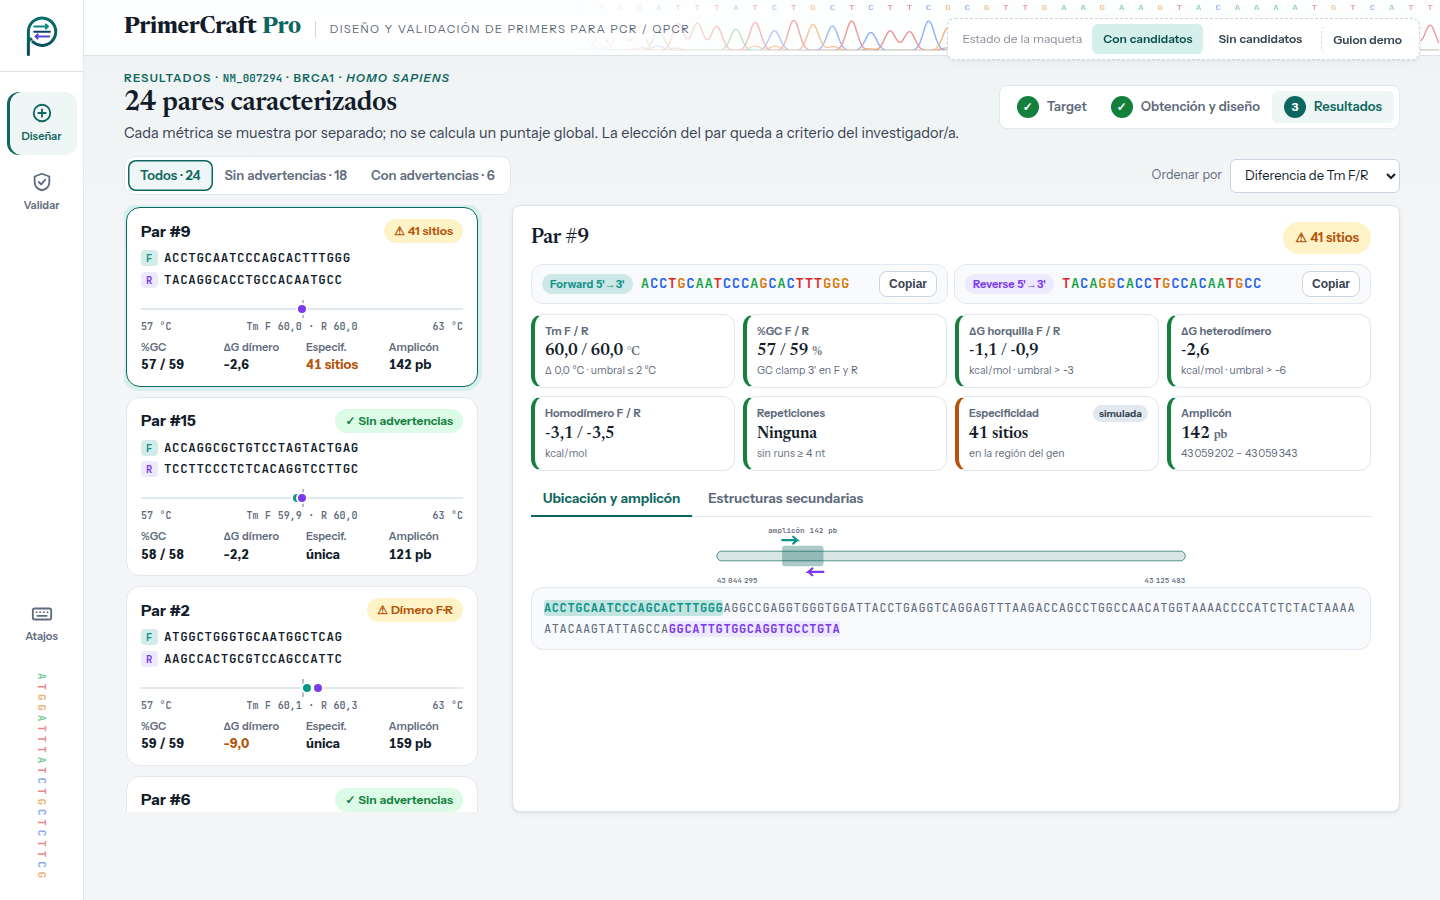
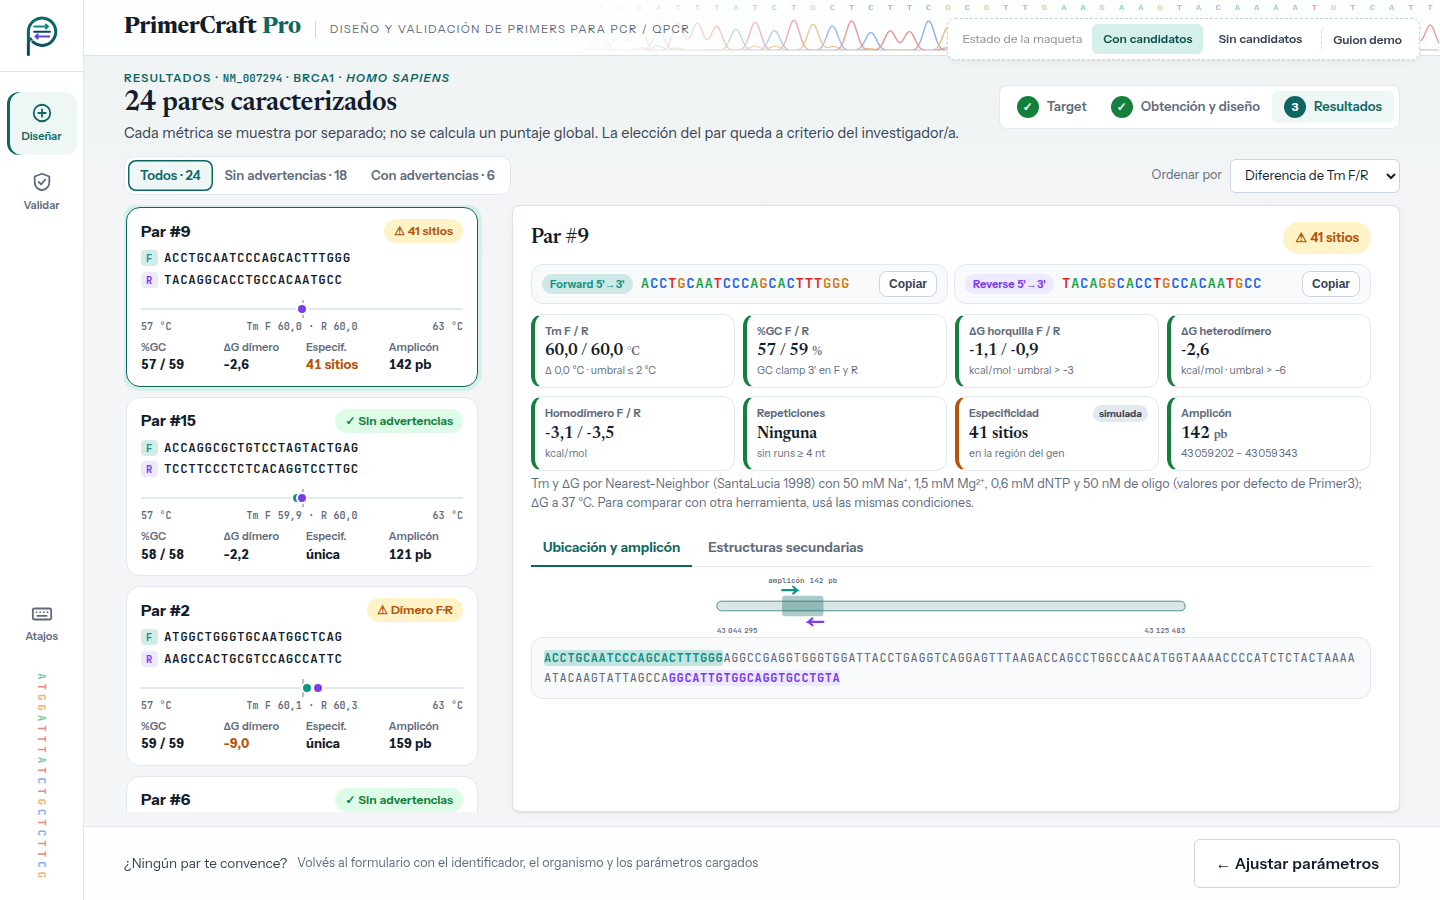
feat(mockups): aplico los hallazgos aceptados en ui-2, ui-3 y ui-5 y regenero las capturas

Changed region(s): [[0.375, 0.5289, 0.9375, 0.7778], [0.0938, 0.9333, 0.5312, 0.9644], [0.875, 0.9333, 0.9688, 0.9644]]

diff --git a/docs/ui/mockups/hu-04_hu-02-1_progreso-corrida.html b/docs/ui/mockups/hu-04_hu-02-1_progreso-corrida.html
@@ -159,6 +159,7 @@ kbd{font-family:var(--mono);font-size:11px;border:1px solid var(--line-2);border
 @keyframes pulse{50%{box-shadow:0 0 0 10px transparent}}
 .tl .t{font-weight:650;font-size:14px} .tl .d{font-size:12.5px;color:var(--muted)}
 .tl .time{font:600 12px var(--mono);color:var(--muted)}
+.tl .slow{margin-top:6px;padding:6px 10px;border-radius:8px;background:var(--warn-soft);color:var(--warn);font-size:12.5px;line-height:1.45}
 .wait .t{color:var(--muted)}
 .big{max-width:760px;margin:10px auto 0;text-align:left}
 .big .icon{width:64px;height:64px;border-radius:18px;display:grid;place-items:center;font-size:30px;font-weight:800;margin-bottom:16px}
@@ -669,7 +670,7 @@ dialog.dlg .row{display:flex;gap:10px;justify-content:flex-end;margin-top:22px;f
         <li class="ok"><div class="dot">✓</div><div><div class="t">Formato validado</div></div><span class="time">0,1 s</span></li>
         <li class="ok"><div class="dot">✓</div><div><div class="t">Referencia obtenida de NCBI Entrez</div><div class="d"><span class="mono">NC_000017.11</span> · región de 81 189 pb + anotación · sin descargas manuales</div></div><span class="time">2,3 s</span></li>
         <li class="ok"><div class="dot">✓</div><div><div class="t">Gen localizado</div><div class="d">43 044 295 – 43 125 483 · hebra −</div></div><span class="time">0,4 s</span></li>
-        <li class="run"><div class="dot">4</div><div><div class="t">Generando candidatos</div><div class="d">Ventana deslizante de 20 nt</div></div><span class="time">11 s</span></li>
+        <li class="run"><div class="dot">4</div><div><div class="t">Generando candidatos</div><div class="d">Ventana deslizante de 20 nt</div><div class="slow">Está tardando más de lo habitual (suele llevar menos de 8 s). La corrida sigue en curso: no hace falta recargar ni volver a enviar.</div></div><span class="time">11 s</span></li>
         <li class="wait"><div class="dot">5</div><div><div class="t">Caracterización</div><div class="d">Tm, %GC, ΔG, especificidad, amplicón</div></div><span class="time">—</span></li>
       </ol>
     </aside>
@@ -1111,8 +1112,24 @@ dialog.dlg .row{display:flex;gap:10px;justify-content:flex-end;margin-top:22px;f
 
   /* ---------- Simulación ---------- */
   const lista = (n) => $$(`.v${n} .tl li`);
+  /* Aviso de demora (ciclo 4, H8): si una etapa sigue en curso más de lo habitual, se avisa
+     en la misma etapa. En la de NCBI se aclara que es un servicio público con cola de espera. */
+  const LENTO = {
+    ncbi: [5000, 'NCBI Entrez está respondiendo más lento de lo habitual (suele tardar 2–3 s). Es un servicio público con cola de espera: la corrida sigue y no hace falta recargar ni volver a enviar.'],
+    otra: [8000, 'Está tardando más de lo habitual (suele llevar menos de 8 s). La corrida sigue en curso: no hace falta recargar ni volver a enviar.'],
+  };
+  const vigilar = (li) => {
+    const [ms, txt] = LENTO[/NCBI/.test($('.t', li).textContent) ? 'ncbi' : 'otra'];
+    timers.push(setTimeout(() => {
+      if (parado || li.className !== 'run' || $('.slow', li)) return;
+      const d = document.createElement('div'); d.className = 'slow'; d.textContent = txt;
+      li.children[1].appendChild(d);
+    }, ms));
+  };
   const paso = (li, clase, t) => {
     li.className = clase;
+    const lento = $('.slow', li); if (lento) lento.remove();
+    if (clase === 'run') vigilar(li);
     const dot = $('.dot', li);
     dot.textContent = clase === 'ok' ? '✓' : clase === 'err' ? '!' : String(lista(B ? 6 : 1).indexOf(li) + 1);
     if (t !== undefined) $('.time', li).textContent = t;

diff --git a/docs/ui/mockups/hu-05_resultados-candidatos.html b/docs/ui/mockups/hu-05_resultados-candidatos.html
@@ -703,6 +703,8 @@ dialog.dlg .row{display:flex;gap:10px;justify-content:flex-end;margin-top:22px;f
         <div class="m ok"><div class="k">Amplicón</div><div class="v">208 <small>pb</small></div><div class="th">43 094 586 – 43 094 793</div></div>
       </div>
 
+      <p class="hint cond" style="margin:-6px 0 18px">Tm y ΔG por Nearest-Neighbor (SantaLucia 1998) con 50 mM Na⁺, 1,5 mM Mg²⁺, 0,6 mM dNTP y 50 nM de oligo (valores por defecto de Primer3); ΔG a 37 °C. Para comparar con otra herramienta, usá las mismas condiciones.</p>
+
       <div class="tabs"><span class="on">Ubicación y amplicón</span><span>Estructuras secundarias</span></div>
       <div class="locus">
         <svg viewBox="0 0 700 90" role="img" aria-label="Ubicación del par dentro de BRCA1">
@@ -721,6 +723,7 @@ dialog.dlg .row{display:flex;gap:10px;justify-content:flex-end;margin-top:22px;f
      3'-G<span class="bond">A</span><span class="bond">C</span><span class="bond">G</span>TGCGAAGAGTCACCACAAG-5'      ΔG −1,9 kcal/mol</div>
     </section>
   </div>
+  <div class="actionbar"><div class="sum">¿Ningún par te convence? <span class="why">Volvés al formulario con el identificador, el organismo y los parámetros cargados</span></div><a class="btn btn-lg" href="hu-01-1_nueva-corrida-diseno.html">← Ajustar parámetros</a></div>
   </div>
 
   <!-- ================= ESTADO 2 · SIN CANDIDATOS (CU-02 E1) ================= -->
@@ -1013,6 +1016,8 @@ dialog.dlg .row{display:flex;gap:10px;justify-content:flex-end;margin-top:22px;f
     if (u) u.innerHTML = `<span class="k">Parámetros usados</span><span class="mono">${PC.esc(D.id)}</span><span><i>${PC.esc(D.org)}</i></span><span>Longitud ${f(D.len)} nt</span><span>%GC ${f(D.gc)} %</span><span>Tm ${f(D.tm)} °C</span>`;
     PC.link($('a.btn-p', v2), 'hu-01-1_nueva-corrida-diseno.html', { aviso: 'sin-candidatos' });
   }
+  // con candidatos: volver a UI-1 con los datos de la corrida cargados (ciclo 4, H4)
+  PC.link($('.v1 .actionbar a.btn'), 'hu-01-1_nueva-corrida-diseno.html');
   if (D.resultado === 'sin-candidatos' && !PC.fixed) { PC.state(2, { focus: false }); return; }
   if (!v1) return;
 

diff --git a/docs/ui/mockups/hu-03-3_resultado-validacion.html b/docs/ui/mockups/hu-03-3_resultado-validacion.html
@@ -664,6 +664,7 @@ dialog.dlg .row{display:flex;gap:10px;justify-content:flex-end;margin-top:22px;f
         <div class="m"><div class="k">Especificidad</div><div class="v">1 sitio</div><div class="th">simulada en el MVP</div></div>
         <div class="m"><div class="k">Amplicón</div><div class="v">208 <small>pb</small></div><div class="th">43 094 586 – 43 094 793</div></div>
       </div>
+      <p class="hint cond" style="margin-top:12px">Tm y ΔG por Nearest-Neighbor (SantaLucia 1998) con 50 mM Na⁺, 1,5 mM Mg²⁺, 0,6 mM dNTP y 50 nM de oligo (valores por defecto de Primer3); ΔG a 37 °C. Para comparar con otra herramienta, usá las mismas condiciones.</p>
     </section>
   </div>
   <div class="actionbar"><div class="sum">Validación completa</div><a class="btn btn-lg" href="hu-03-1_validar-primer.html">Validar otro par</a></div>
